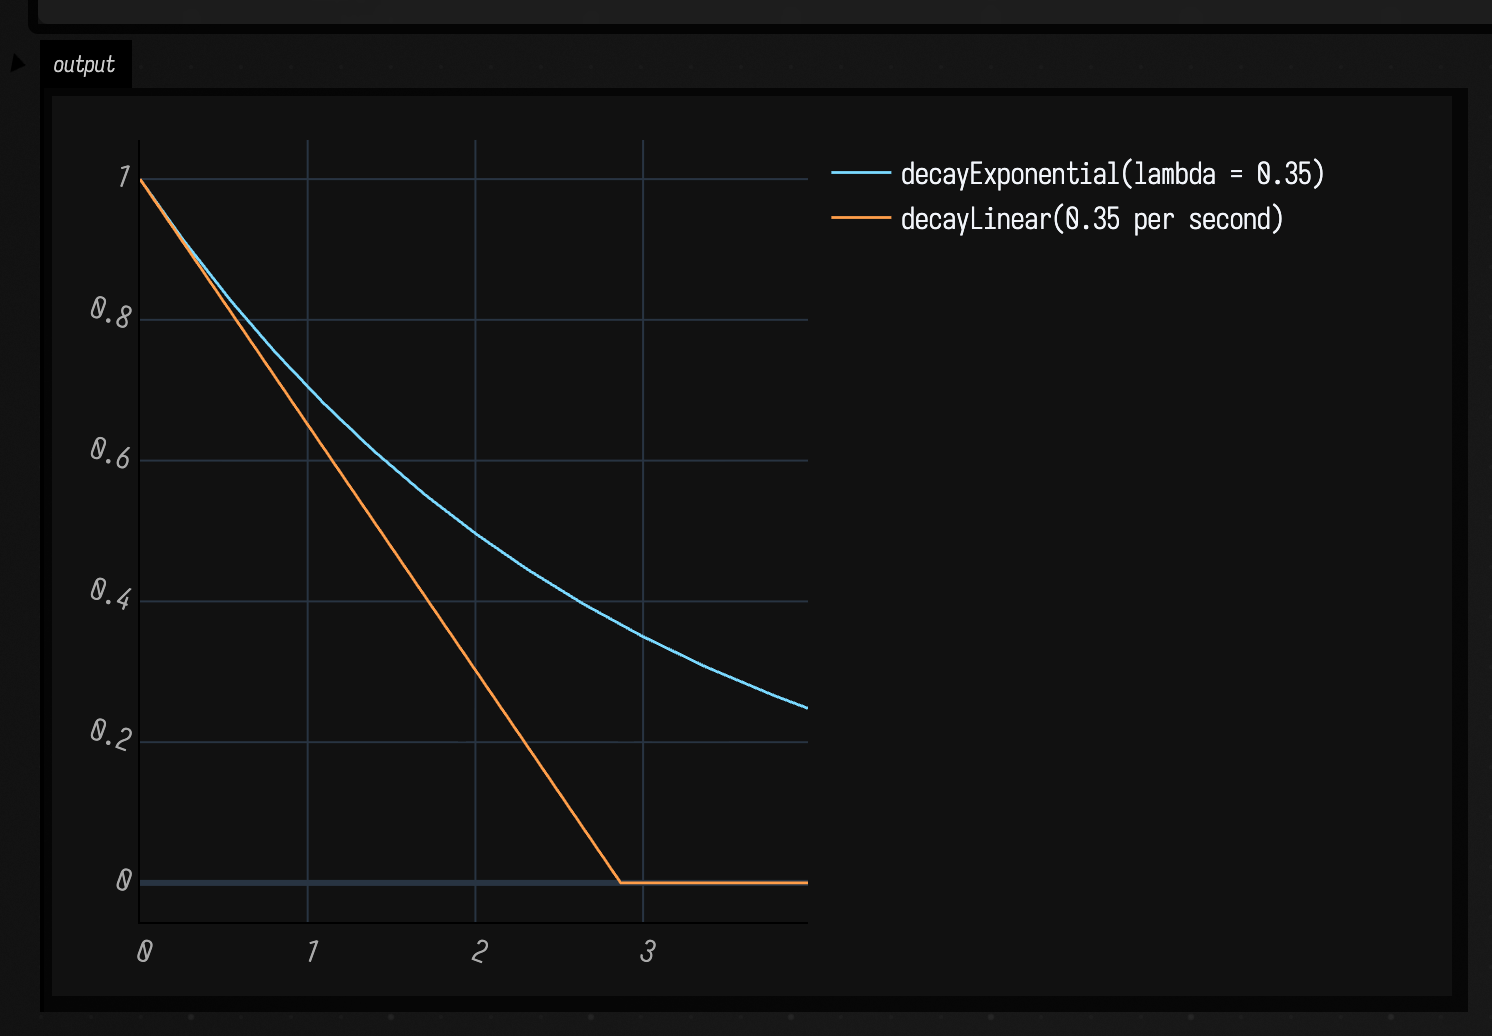
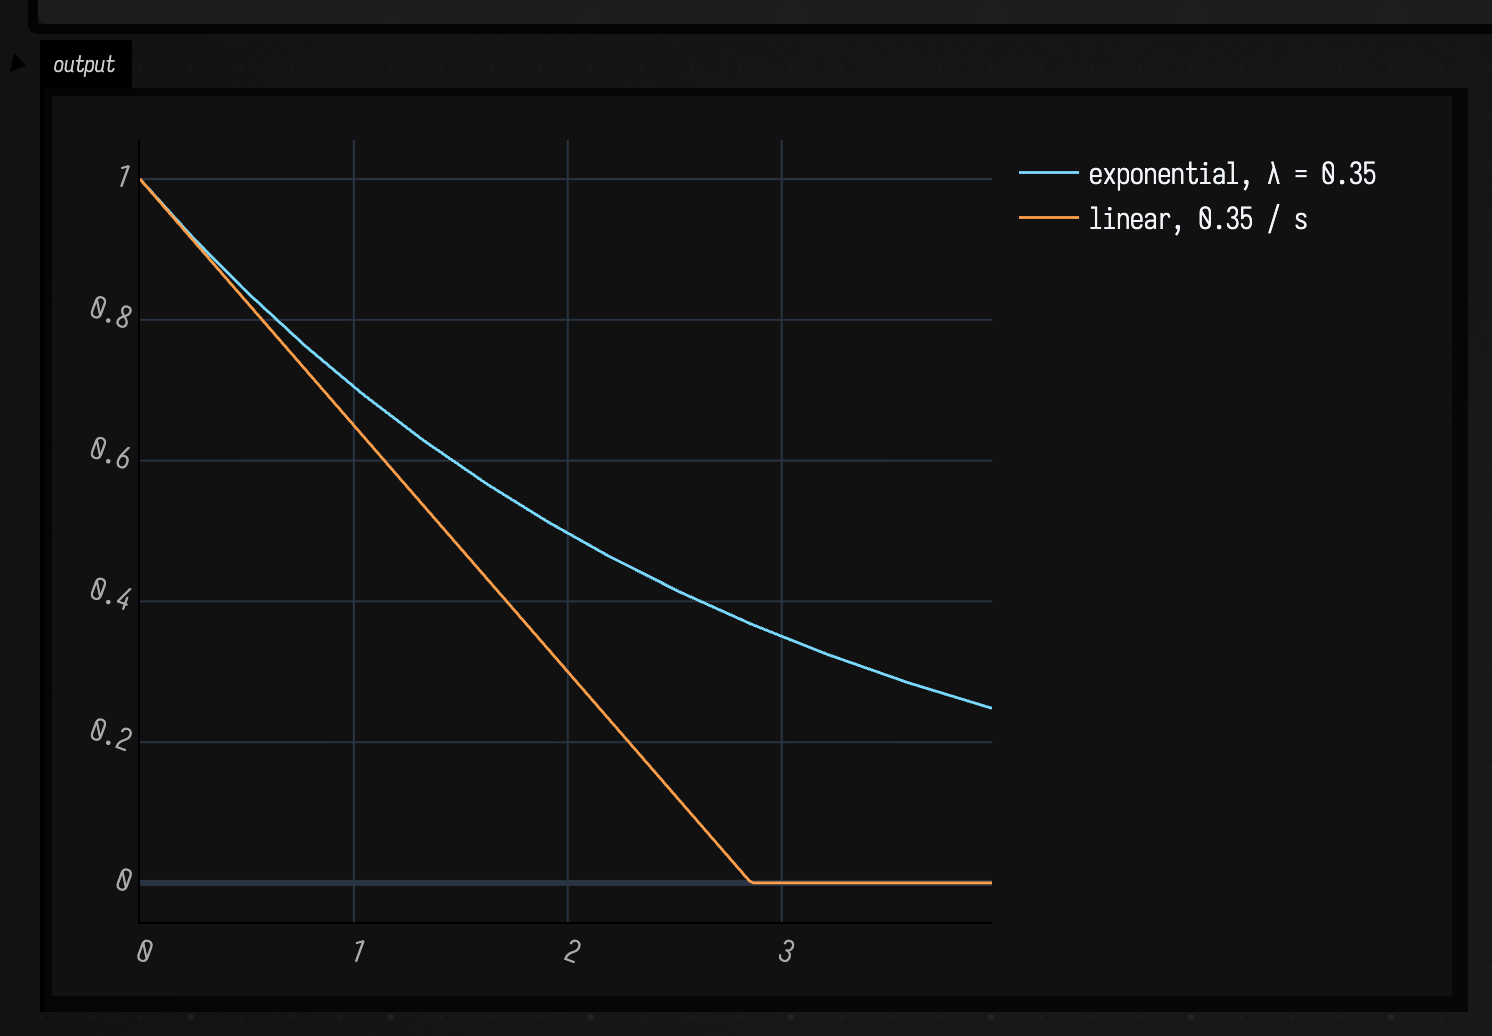
docs(dynamic-graph): one video per clip, and a legend that stops eating the plot
Two things the human spotted reading the page.

1. EACH CLIP WAS ATTACHED TWICE. The two video fences carried `embed=true` *and* a
   hand-authored `<video>` tag, so `docs_hooks.py:2084` emitted its own bare
   `<video controls autoplay …>` alongside the authored one — two players per clip.
   Dropped `embed=true` and kept the authored tags, because those carry `width` and
   an `aria-label` describing what is on screen, which the generated one does not
   (docs_hooks uses `alt=` for screenshot embeds only). Capture is unaffected:
   `embed` controls HTML emission, not recording. Verified in the built page —
   `<video>` count 4 -> 2, one per clip, both keeping width + aria-label.

2. THE LEGEND WAS EATING THE PLOT, AND THE TEMPLATE IS NOT AT FAULT. Worth writing
   down because "did we bust the plotly template?" was the natural suspicion and the
   answer is no. `darkMode()` parks the legend outside the plot at `x = 1.02`
   (`plotly.kt:262-267`) after the 2026-07-30 fix that stopped it covering data, and
   Plotly's autoMargin then reserves however much width the trace labels need. So
   long labels shrink the data area by design — `plotly.kt:232-233` says exactly
   that: "keep the labels short if the data area matters more." These were
   "decayExponential(lambda = 0.35)" and "decayLinear(0.35 per second)", ~30 chars
   each for a two-series plot. Shortened to "exponential, λ = 0.35" and
   "linear, 0.35 / s"; the plot area goes from ~53% to ~67% of the figure width.
[…]

diff --git a/public/docs/dynamic_graph_systems_examples.md b/public/docs/dynamic_graph_systems_examples.md
@@ -250,8 +250,8 @@ for (i in 0 until samples) {
     b.decayLinear(1f / 60f, 0.35)
 }
 showSignals(
-    "decayExponential(lambda = 0.35)" to expo.toList(),
-    "decayLinear(0.35 per second)" to lin.toList(),
+    "exponential, λ = 0.35" to expo.toList(),
+    "linear, 0.35 / s" to lin.toList(),
     x = (0 until samples).map { it / 60.0 }
 )
 :::endfold
@@ -381,7 +381,7 @@ change on screen is a change in the graph and not a change in the geometry.
 a stretch along that axis that breathes between 0.25 and 2.0. So "the five nearest points" becomes a
 time-varying question asked of a cloud standing perfectly still.
 
-```diffstatic_runner {data-lang=kotlin video="assets/dynamic_graph_systems_examples/breathing.mp4" capture="box" open-outputs="true" wait-output="true" wait-output-kind="display" execution="launch" duration="7" fps="20" timeout="300" w="1000" embed=true name="dgs-breathing-video" alt="a k-nearest-neighbour graph over a stationary point cloud rewiring itself as the distance metric stretches and rotates, beside the same cloud under a frozen metric whose edge count never changes"}
+```diffstatic_runner {data-lang=kotlin video="assets/dynamic_graph_systems_examples/breathing.mp4" capture="box" open-outputs="true" wait-output="true" wait-output-kind="display" execution="launch" duration="7" fps="20" timeout="300" w="1000" name="dgs-breathing-video" alt="a k-nearest-neighbour graph over a stationary point cloud rewiring itself as the distance metric stretches and rotates, beside the same cloud under a frozen metric whose edge count never changes"}
 :::static
 // The cloud NEVER MOVES in this clip. Every edge that appears or disappears is the anisotropic
 // metric breathing -- an axis that rotates with the clock and a stretch along it between 0.25 and
@@ -482,7 +482,7 @@ this page for the growth curve — so the clip below caps at 900 points and uses
 schedule** (`ramp`), because the birth phase is over in the first sixth of the run and a linear
 schedule spends five sixths of the clip on the aftermath.
 
-```diffstatic_runner {data-lang=kotlin video="assets/dynamic_graph_systems_examples/morphogenesis.mp4" capture="box" open-outputs="true" wait-output="true" wait-output-kind="display" execution="launch" duration="11" fps="20" timeout="360" w="1060" embed=true name="dgs-morphogenesis-video" alt="a ring of points growing into a branching filamentous structure while its graph is continually rebuilt, beside a control arm with tip growth switched off in which the ring stays a ring"}
+```diffstatic_runner {data-lang=kotlin video="assets/dynamic_graph_systems_examples/morphogenesis.mp4" capture="box" open-outputs="true" wait-output="true" wait-output-kind="display" execution="launch" duration="13" fps="20" timeout="360" w="1060" name="dgs-morphogenesis-video" alt="a ring of points growing into a branching filamentous structure while its graph is continually rebuilt, beside a control arm with tip growth switched off in which the ring stays a ring"}
 :::static
 // The full pipeline: diffuse a resource along the edges and climb its gradient, relax the springs,
 // grow tips where the incident edges pull coherently, merge what has collided, smooth, jitter.
@@ -588,7 +588,17 @@ the springs winning: the initial birth burst piles 900 points into the ring's fo
 every pair is inside `rEnter`; as the springs push the structure apart into filaments, most of those
 proximity edges are lost and what is left is the branching skeleton. The step counter is in the frame
 for the reason the [ALife page](alife_examples.md) gives — a clip whose final label reads
-`s 210 / 560` is a failed clip and says so on its face.
+`s 210 / 560` is a failed clip and says so on its face. This clip's own last frame reads **s560** in
+both panels — `899pts 2950e` beside `56pts 86e`, the table's last row digit for digit — so the
+recording covers the whole schedule *and* agrees with it.
+
+That took three seconds of recording slack (`duration = 13` against `seconds = 10`) rather than the
+one or two [`animateEvolution`](reference/alife.md#alife-animate-kt)'s docs ask for, and the ramp is
+why: `ramp = 25` makes the *last* frames' step batches the largest in the run, so the capture falls
+furthest behind exactly where it has least clock left to recover. Measured on the recorded mp4, the
+picture is still changing at 11.90 s — a full 1.9 s after the schedule's own clock ran out — and the
+remaining 1.1 s is the hold on the settled result. At `duration = 11` the recorder stopped
+mid-catch-up: two takes ended at `s528` and `s513`.
 
 ## 6. The threshold is the whole point
 
